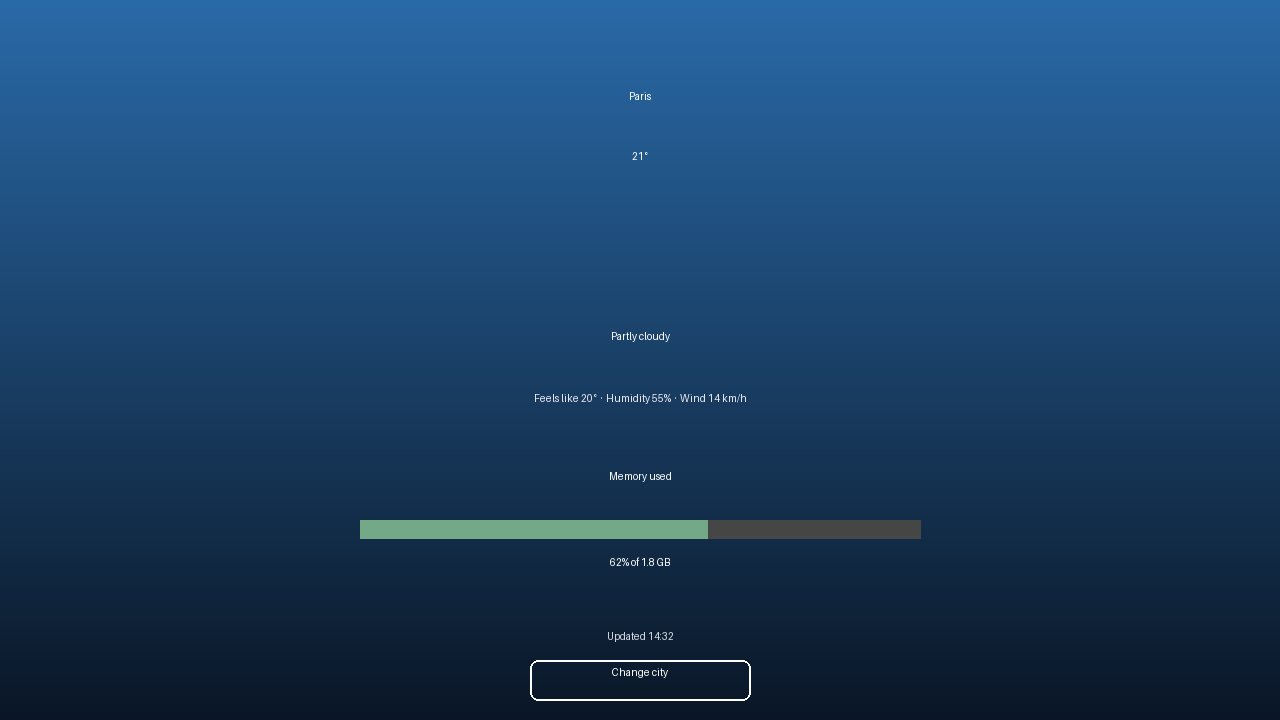
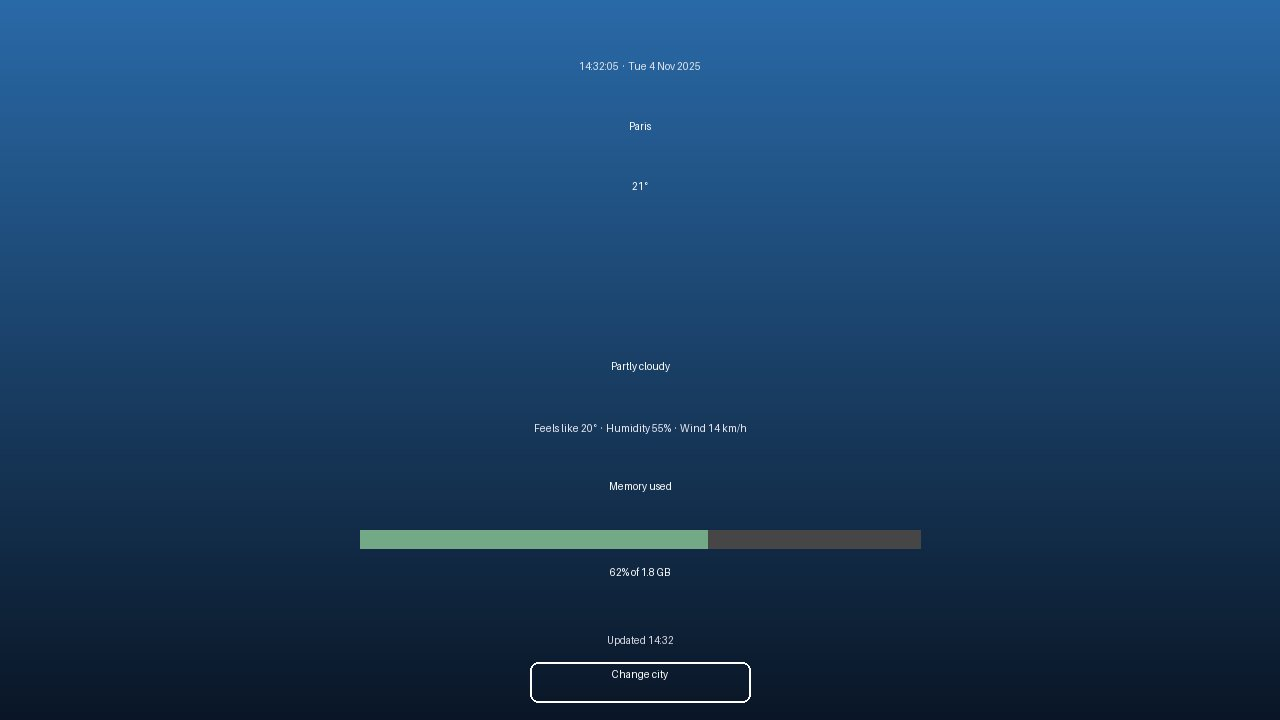
addons: show the time and date on the Sky & RAM page
A clock line at the top, locale-formatted, ticking every second while the page is on screen.

diff --git a/addons/weather-ram/app/src/main/java/com/gathin/weatherram/WeatherRamActivity.java b/addons/weather-ram/app/src/main/java/com/gathin/weatherram/WeatherRamActivity.java
@@ -39,9 +39,11 @@ public final class WeatherRamActivity extends Activity {
     private final Handler main = new Handler(Looper.getMainLooper());
     private final Runnable tick = this::refreshWeather;
     private final Runnable ramTick = this::refreshRam;
+    private final Runnable clockTick = this::refreshClock;
     private SharedPreferences place;
     private View root;
     private TextView message;
+    private TextView clockView;
     private TextView placeView;
     private TextView tempView;
     private TextView skyView;
@@ -69,6 +71,7 @@ public final class WeatherRamActivity extends Activity {
         setContentView(root);
 
         message = text(dp(26), true);
+        clockView = text(dp(24), true);
         placeView = text(dp(30), true);
         tempView = text(dp(96), true);
         skyView = text(dp(30), true);
@@ -124,6 +127,7 @@ public final class WeatherRamActivity extends Activity {
         super.onResume();
         resumed = true;
         refreshRam();
+        refreshClock();
         if (place.contains("name")) refreshWeather();
     }
 
@@ -134,13 +138,24 @@ public final class WeatherRamActivity extends Activity {
         requestId++;
         searchId++;
         main.removeCallbacks(tick);
-        main.removeCallbacks(ramTick);   // nothing runs while the page is not on screen
+        main.removeCallbacks(ramTick);
+        main.removeCallbacks(clockTick);   // nothing runs while the page is not on screen
     }
 
     @Override
     protected void onDestroy() {
         super.onDestroy();
         io.shutdownNow();
+    }
+
+    /** The time and date line, locale-formatted, ticking every second while the page is on screen. */
+    private void refreshClock() {
+        main.removeCallbacks(clockTick);
+        if (!resumed) return;
+        Date now = new Date();
+        clockView.setText(DateFormat.getTimeFormat(this).format(now) + " \u00b7 "
+                + DateFormat.getDateFormat(this).format(now));
+        main.postDelayed(clockTick, 1000L);
     }
 
     private void refreshWeather() {

diff --git a/addons/weather-ram/README.md b/addons/weather-ram/README.md
@@ -1,7 +1,7 @@
 # Sky & RAM
 
-One full-screen page with the **local weather and the RAM in use**: the city, the temperature now, the
-conditions and feels-like, and a memory bar with its percentage. For the [Clean Your TV](../../README.md)
+One full-screen page with the **time and date, the local weather and the RAM in use**: a clock line, the city,
+the temperature now, the conditions and feels-like, and a memory bar with its percentage. For the [Clean Your TV](../../README.md)
 launcher it declares a [module card](../../docs/modules.md), so once you answer **Show card** its tile reads
 "Sky & RAM" with a sky-blue glow; on any other Android TV home it is an ordinary app.
 
@@ -10,7 +10,7 @@ launcher it declares a [module card](../../docs/modules.md), so once you answer 
 - **Weather data** comes from [Open-Meteo](https://open-meteo.com/), which needs no account or key, using DWD's
   ICON model. It is read only while the page is on screen: every 30 minutes, or 5 minutes after a failure.
 - **The RAM percentage** is read every ten seconds from `/proc/meminfo` (used over total), which needs no
-  permission and no network.
+  permission and no network. The clock ticks every second, in the TV's own time and date formats.
 - Degrees Celsius by default (set `temperature_unit` to `f` in `values/strings.xml` for Fahrenheit); English or
   French words, with the TV's language.
 
